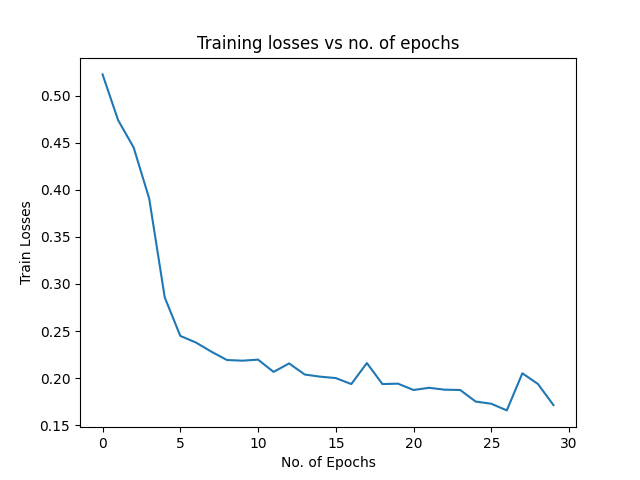
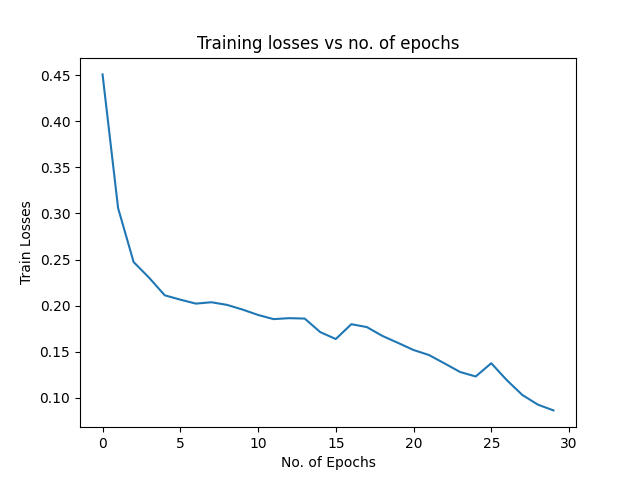
added GN with Deep resnet unet

diff --git a/model.py b/model.py
@@ -488,6 +488,71 @@ class ResUNETPlus(nn.Module):
 
 
 
+
+class ResUNET_with_GN(nn.Module):
+    def __init__(self, in_channels=3, out_channels=1, filters=[64, 128, 256, 512]):
+        super(ResUNET_with_GN, self).__init__()
+
+        ## input and encoder blocks
+        self.input_layer = nn.Sequential(
+            nn.Conv2d(in_channels, filters[0], kernel_size=3, padding=1),
+            nn.GroupNorm(num_groups=filters[0]//8,num_channels=filters[0]),
+            nn.ReLU(),
+            nn.Conv2d(filters[0], filters[0], kernel_size=3, padding=1),
+        )
+        self.input_skip = nn.Sequential(
+            nn.Conv2d(in_channels, filters[0], kernel_size=3, padding=1)
+        )
+
+        self.residual_conv_1 = ResNetBlock(filters[0], filters[1], stride=2, padding=1)
+        self.residual_conv_2 = ResNetBlock(filters[1], filters[2], stride=2, padding=1)
+
+
+        ## bridge
+        self.bridge = ResNetBlock(filters[2], filters[3], stride=2, padding=1)
+
+        ## decoder blocks
+        self.upsample_1 = nn.ConvTranspose2d(filters[3],filters[3], kernel_size=2, stride=2)
+        self.up_residual_conv_1 = ResNetBlock(filters[3]+filters[2],filters[2], stride=1, padding=1)
+
+        self.upsample_2 = nn.ConvTranspose2d(filters[2],filters[2], kernel_size=2, stride=2)
+        self.up_residual_conv_2 = ResNetBlock(filters[2]+filters[1],filters[1], stride=1, padding=1)
+
+        self.upsample_3 = nn.ConvTranspose2d(filters[1],filters[1], kernel_size=2, stride=2)
+        self.up_residual_conv_3 = ResNetBlock(filters[1]+filters[0],filters[0], stride=1, padding=1)
+
+        ## output layer
+        self.output_layer = nn.Conv2d(filters[0], out_channels, kernel_size=1, stride=1,)
+
+    def forward(self, x):
+        
+        ## Encoder 
+        x1 = self.input_layer(x) + self.input_skip(x)
+        x2 = self.residual_conv_1(x1)
+        x3 = self.residual_conv_2(x2)
+
+        ## Bridge
+        x4 = self.bridge(x3)
+
+        ## Decoder
+        x4 = self.upsample_1(x4)
+        x5 = torch.cat([x4, x3], dim=1)
+        x6 = self.up_residual_conv_1(x5)
+
+        x6 = self.upsample_2(x6)
+        x7 = torch.cat([x6, x2], dim=1)
+        x8 = self.up_residual_conv_2(x7)
+
+        x8 = self.upsample_3(x8)
+        x9 = torch.cat([x8, x1], dim=1)
+        x10 = self.up_residual_conv_3(x9)
+
+        output = self.output_layer(x10)
+
+        return output
+
+
+
 def test():
     x = torch.randn((3, 1, 160, 160))
     

diff --git a/train.py b/train.py
@@ -6,7 +6,7 @@ import numpy as np
 
 
 from utils import get_loaders, Fit
-from model import UNET, Attention_UNET, Inception_UNET, Inception_Attention_UNET, ResUNET, ResUNETPlus
+from model import UNET, Attention_UNET, Inception_UNET, Inception_Attention_UNET, ResUNET, ResUNETPlus, ResUNET_with_GN
 #from focal_loss import FocalLoss
 from lookahead import Lookahead
 from dense_unet import DenseUNet
@@ -16,7 +16,7 @@ os.environ["KMP_DUPLICATE_LIB_OK"]="TRUE"
 
 LEARNING_RATE = 1e-4
 DEVICE = "cuda:0" if torch.cuda.is_available() else "cpu"
-BATCH_SIZE = 4
+BATCH_SIZE = 16
 NUM_EPOCHS = 30
 IMAGE_HEIGHT = 256 # 1127 originally
 IMAGE_WIDTH = 256 # 1991 originally
@@ -65,12 +65,13 @@ def main():
         test_masks_transform= test_masks_transform,
     )
 
+    
     loss_fn = nn.BCEWithLogitsLoss()
     #loss_fn = FocalLoss()
 
     
-    print("Deep Residual UNET")
-    model = ResUNET(in_channels=3, out_channels=1)
+    print("Deep Residual UNET with GN")
+    model = ResUNET_with_GN(in_channels=3, out_channels=1)
     model.to(device=DEVICE)
     optimizer = optim.Adam(model.parameters(), lr=LEARNING_RATE,)
     #lookahead = Lookahead(optimizer, k=3, alpha=0.6) 

diff --git a/modules.py b/modules.py
@@ -116,10 +116,12 @@ class ResNetBlock(nn.Module):
         super(ResNetBlock, self).__init__()
         
         self.conv_block = nn.Sequential(
-            nn.BatchNorm2d(in_channels),
+            #nn.BatchNorm2d(in_channels),
+            nn.GroupNorm(num_groups=in_channels//8,num_channels=in_channels),
             nn.ReLU(),
             nn.Conv2d(in_channels, out_channels, kernel_size=3, stride=stride, padding=padding),
-            nn.BatchNorm2d(out_channels),
+            #nn.BatchNorm2d(out_channels)
+            nn.GroupNorm(num_groups=out_channels//8,num_channels=out_channels),
             nn.ReLU(),
             nn.Conv2d(out_channels, out_channels, kernel_size=3, stride=1, padding=1),
         )
